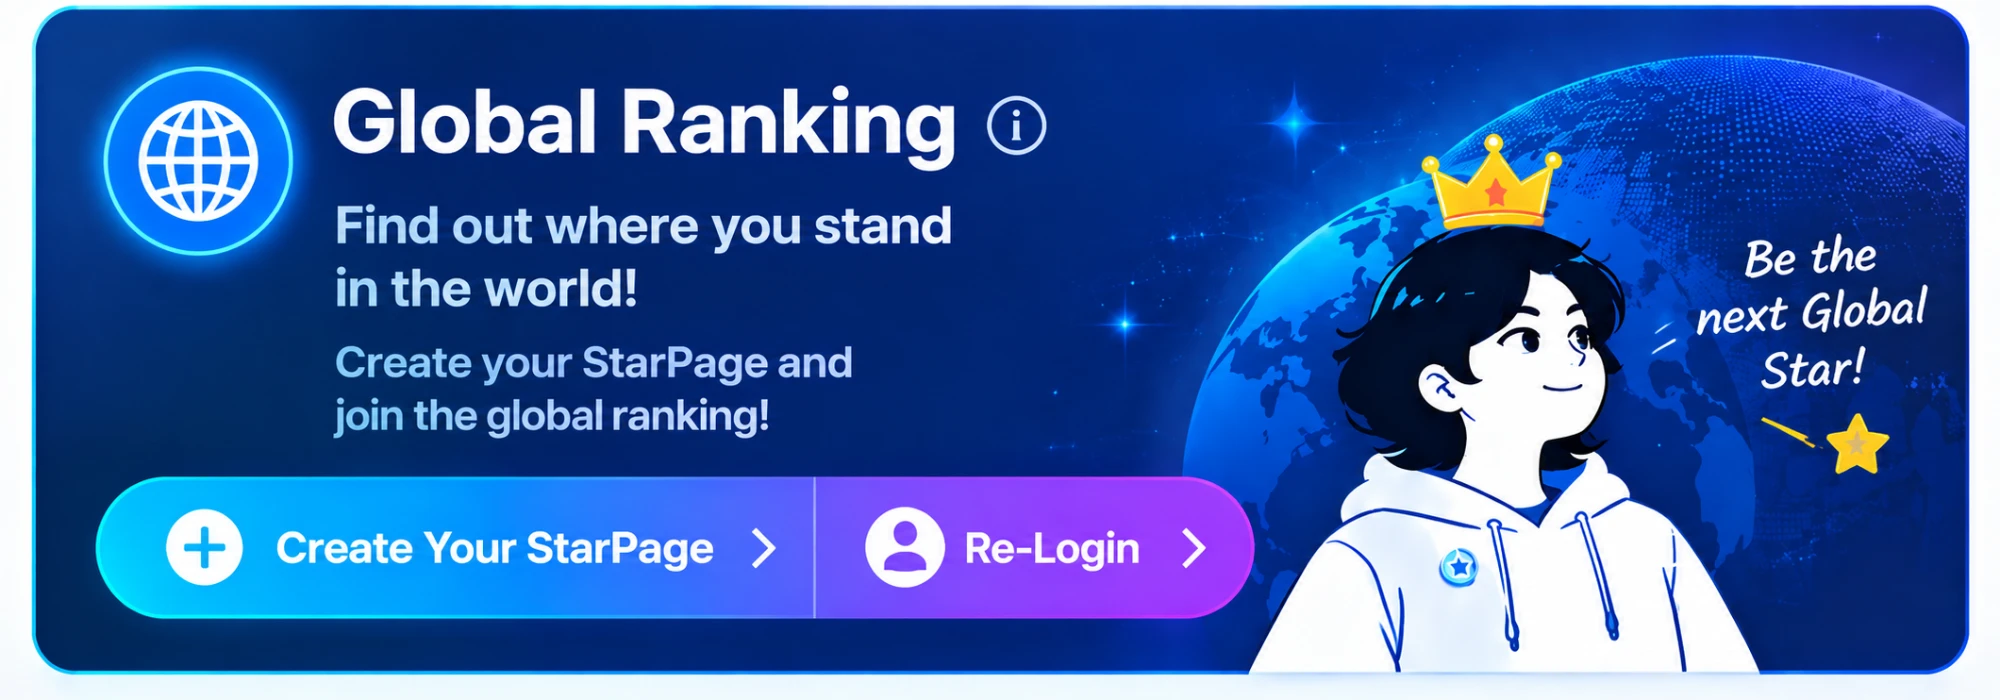
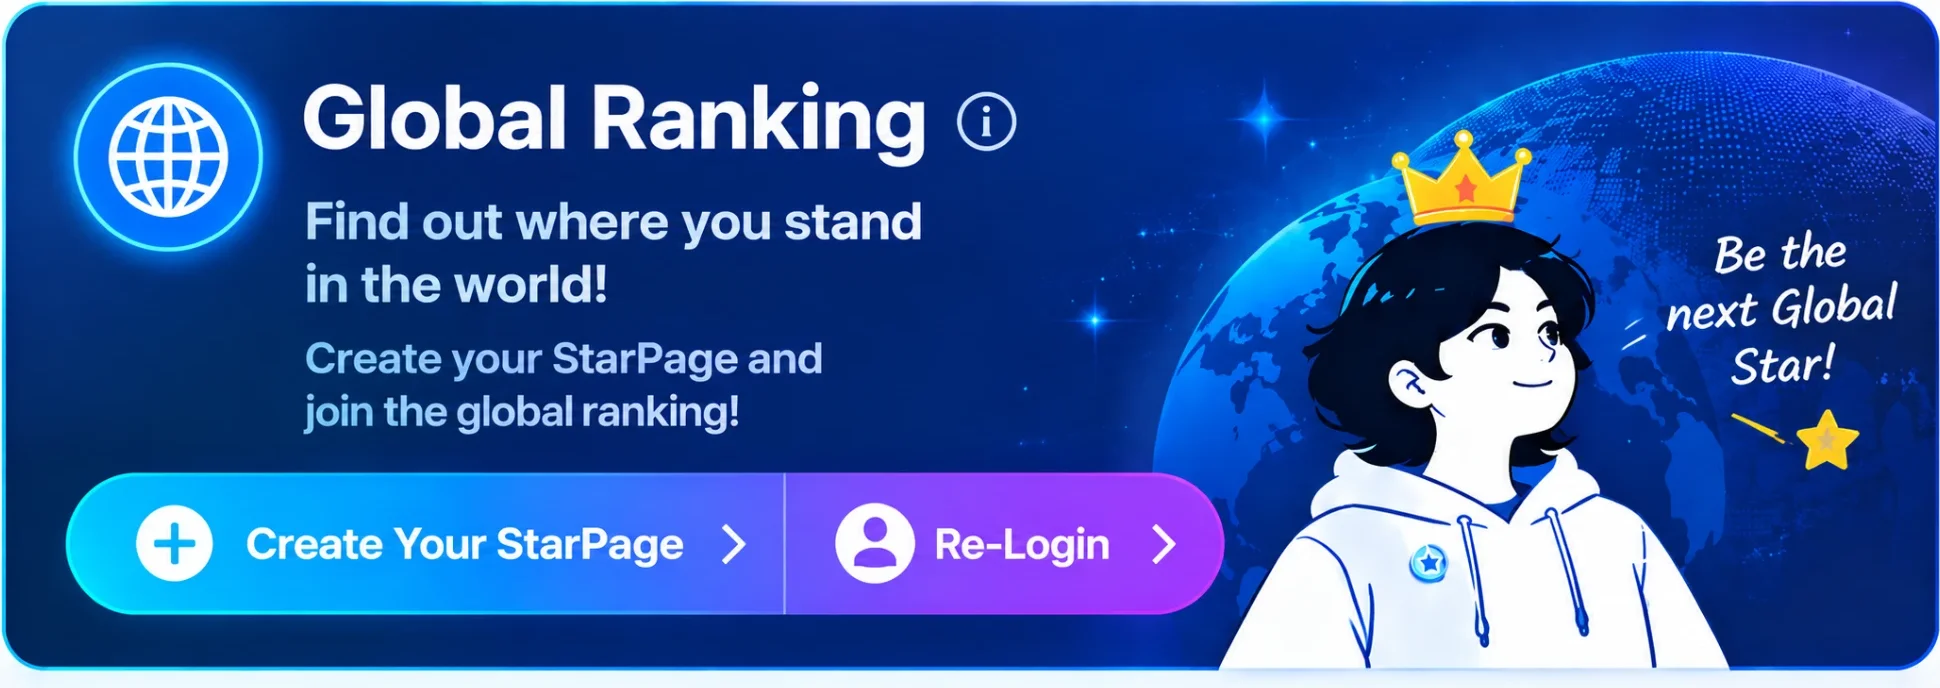
fix(lobby): 비로그인 배너 이미지의 흰 여백을 잘라내 다른 위젯과 같은 폭으로
- 원본 2000×700의 파란 콘텐츠 바깥 흰 여백(좌우 30px, 위 4px, 아래 8px)을 픽셀 스캔으로 찾아
  1940×688로 잘랐다 (cwebp q85, 145KB → 106KB). 이미지가 카드 폭에 꽉 차서 다른 위젯과 정렬된다.
- 투명 버튼 좌표를 잘라낸 이미지 기준으로 다시 잰 값으로 갱신(버튼 띠 y 473~614, 구분선 x 785).
  합성 이미지로 두 클릭 영역이 그림의 버튼과 겹치는 것을 확인했다.
- 카드 모서리 반지름을 이미지 자체의 둥근 모서리(폭의 2.06%)에 맞춰 8px로, 그림자 제거.

Changed region(s): [[0.0, 0.0, 1.0, 0.9767], [0.1546, 0.4884, 0.433, 0.641], [0.6186, 0.1221, 0.6804, 0.2137]]

diff --git a/core-frontend/src/app/pages/lobby/components/my-ranking-card/my-ranking-card.component.scss b/core-frontend/src/app/pages/lobby/components/my-ranking-card/my-ranking-card.component.scss
@@ -261,14 +261,18 @@ $mr-live: #2ecc71;
 }
 
 // ===== 비로그인 — 클라이언트 배너 이미지 1장 + 투명 클릭 영역 2개 (2026-09-26) =====
-// 이미지(2000×700)에 배경·지구·인물·왕관·버튼이 전부 그려져 있어 셸 여백을 없애고 이미지가 카드 전체를 채운다.
-// 높이는 이미지 비율(20:7)로 정해져 로그인 변형(min-height 124)과 다를 수 있다 — 클라이언트 확정 방식.
+// 이미지(원본 2000×700 → 흰 여백을 잘라 1940×688)에 배경·지구·인물·왕관·버튼이 전부 그려져 있어
+// 셸 여백을 없애고 이미지가 카드 전체를 채운다. 파란 콘텐츠가 다른 위젯과 같은 폭으로 붙는다.
+// 높이는 이미지 비율로 정해져 로그인 변형(min-height 124)과 다를 수 있다 — 클라이언트 확정 방식.
 .mr-card.guest {
   padding: 0;
   min-height: 0;
   overflow: hidden; // 모서리 둥글기 밖으로 이미지가 나가지 않게
   background: #0b1a3a; // 이미지 로딩 전 자리색 (이미지 배경과 같은 네이비)
   border: 0; // 이미지에 테두리가 그려져 있어 셸 테두리를 없앤다 (클라이언트 요청)
+  // 이미지 자체의 둥근 모서리(원본 폭의 2.06%)에 맞춘다 — 셸 반지름 16px 이 더 크면 모서리에 이미지 바깥 흰 픽셀이 보인다
+  border-radius: 8px;
+  box-shadow: none;
 }
 
 .mr-banner {
@@ -286,11 +290,12 @@ $mr-live: #2ecc71;
   pointer-events: none; // 탭은 아래 투명 버튼이 받는다
 }
 
-// 이미지 위 투명 버튼. 위치·크기는 원본 픽셀을 비율로 환산한 값 (버튼 띠 y 480~615, 경계 x 815)
+// 이미지 위 투명 버튼. 위치·크기는 잘라낸 이미지(1940×688)의 픽셀을 비율로 환산한 값
+// (버튼 띠 y 473~614, 왼쪽 끝 x 66, 구분선 x 785, 오른쪽 끝 x 1224 — 픽셀 스캔으로 측정)
 .mr-hit {
   position: absolute;
-  top: 68.5%;
-  height: 19.5%;
+  top: 68.8%;
+  height: 20.5%;
   margin: 0;
   padding: 0;
   border: 0;
@@ -304,13 +309,13 @@ $mr-live: #2ecc71;
 }
 
 .mr-hit-create {
-  left: 4.5%;
-  width: 36.5%;
+  left: 3.4%;
+  width: 37.1%;
 }
 
 .mr-hit-relogin {
-  left: 41%;
-  width: 22%;
+  left: 40.5%;
+  width: 22.6%;
 }
 
 // ===== 스켈레톤 (다크 셸 위라 톤을 낮춘다 — skeleton.component.scss .sk-vs .sk와 같은 방식) =====

diff --git a/core-frontend/src/app/pages/lobby/components/my-ranking-card/my-ranking-card.component.html b/core-frontend/src/app/pages/lobby/components/my-ranking-card/my-ranking-card.component.html
@@ -63,7 +63,7 @@
   </ng-container>
 
   <!-- 비로그인·관리자: 클라이언트가 준 배너 이미지 1장을 그대로 쓰고(2026-09-26, 2-29 "같은 셸" 결정 번복),
-       이미지에 그려진 두 버튼 자리에 투명 클릭 영역만 얹는다. 좌표는 2000×700 원본에서 잰 비율이다.
+       이미지에 그려진 두 버튼 자리에 투명 클릭 영역만 얹는다. 원본의 흰 여백은 잘라냈고(1940×688) 좌표는 그 기준 비율이다.
        이미지 안 글자는 스크린리더가 못 읽으므로 aria-label로 같은 문구를 준다. 로그인 팝업은 띄우지 않는다 -->
   <ng-template #guestTpl>
     <div class="mr-banner">
